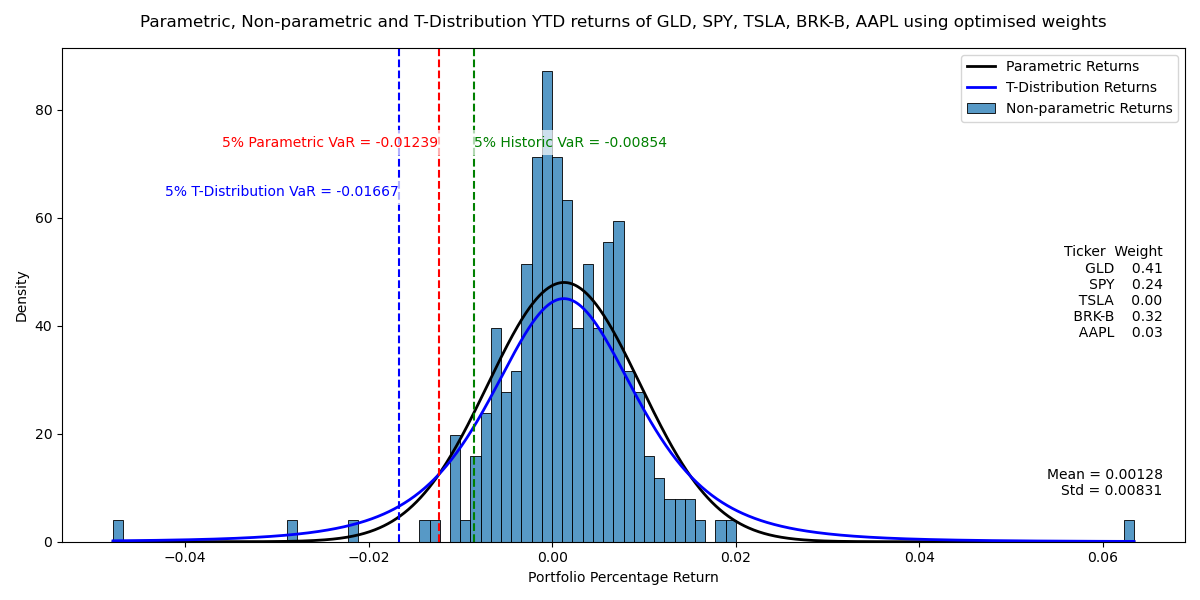
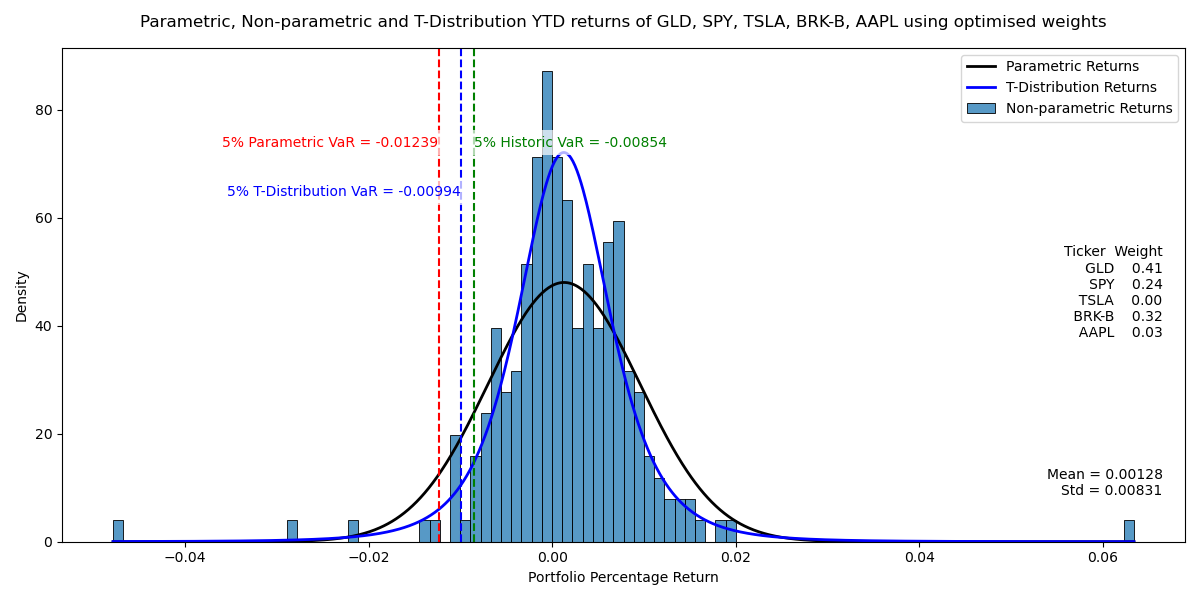
edited back to scale on t test

diff --git a/SCRIPTS/stat_methods.py b/SCRIPTS/stat_methods.py
@@ -46,11 +46,14 @@ def t_backtest(returns, weights):
     def fit_loc(x):
         nu, loc, scale = t.fit(x)
         return loc
-    portfolio_df['rolling_std'] = portfolio_df['return'].rolling(window=504).std()
+    def fit_scale(x):
+        nu, loc, scale = t.fit(x)
+        return scale
     portfolio_df['nu']    =  portfolio_df['return'].rolling(window=504).apply(fit_nu, raw=False)
     portfolio_df['loc']   =  portfolio_df['return'].rolling(window=504).apply(fit_loc, raw=False)
+    portfolio_df['scale'] = portfolio_df['return'].rolling(window=504).apply(fit_scale, raw=False)
     t_quantile = t.ppf(0.05,  portfolio_df['nu'])
-    portfolio_df['t_var'] = (portfolio_df['loc'] + t_quantile * portfolio_df['rolling_std']).shift(1)
+    portfolio_df['t_var'] = (portfolio_df['loc'] + t_quantile * portfolio_df['scale']).shift(1)
     portfolio_df = portfolio_df[["return","t_var"]].dropna(subset=['t_var'])
     portfolio_df['in limit'] = portfolio_df['return'] < portfolio_df['t_var']
     count = portfolio_df['in limit'].sum()   
@@ -75,10 +78,10 @@ def varplots(returns,weights, weight_type, img_path,tickers):
     nu, loc, scale = t.fit(portfolio_returns)
     portfolio_parametric_var = mean - 1.645 * std
     portfolio_historic_var = np.percentile(portfolio_returns, 5)
-    portfolio_t_var = loc + t.ppf(0.05,nu)*std
+    portfolio_t_var = loc + t.ppf(0.05,nu)*scale
     x = np.linspace(portfolio_returns.min(), portfolio_returns.max(), 1000)
     pdf = norm.pdf(x, mean, std)
-    t_pdf = t.pdf(x, df=nu, loc=loc, scale=std)
+    t_pdf = t.pdf(x, df=nu, loc=loc, scale=scale)
     fig, ax = plt.subplots(figsize=(12, 6))
     sns.histplot(portfolio_returns, bins=100, stat='density',label="Non-parametric Returns", ax=ax)
     ax.plot(x, pdf, linewidth=2, color='black', label='Parametric Returns')
